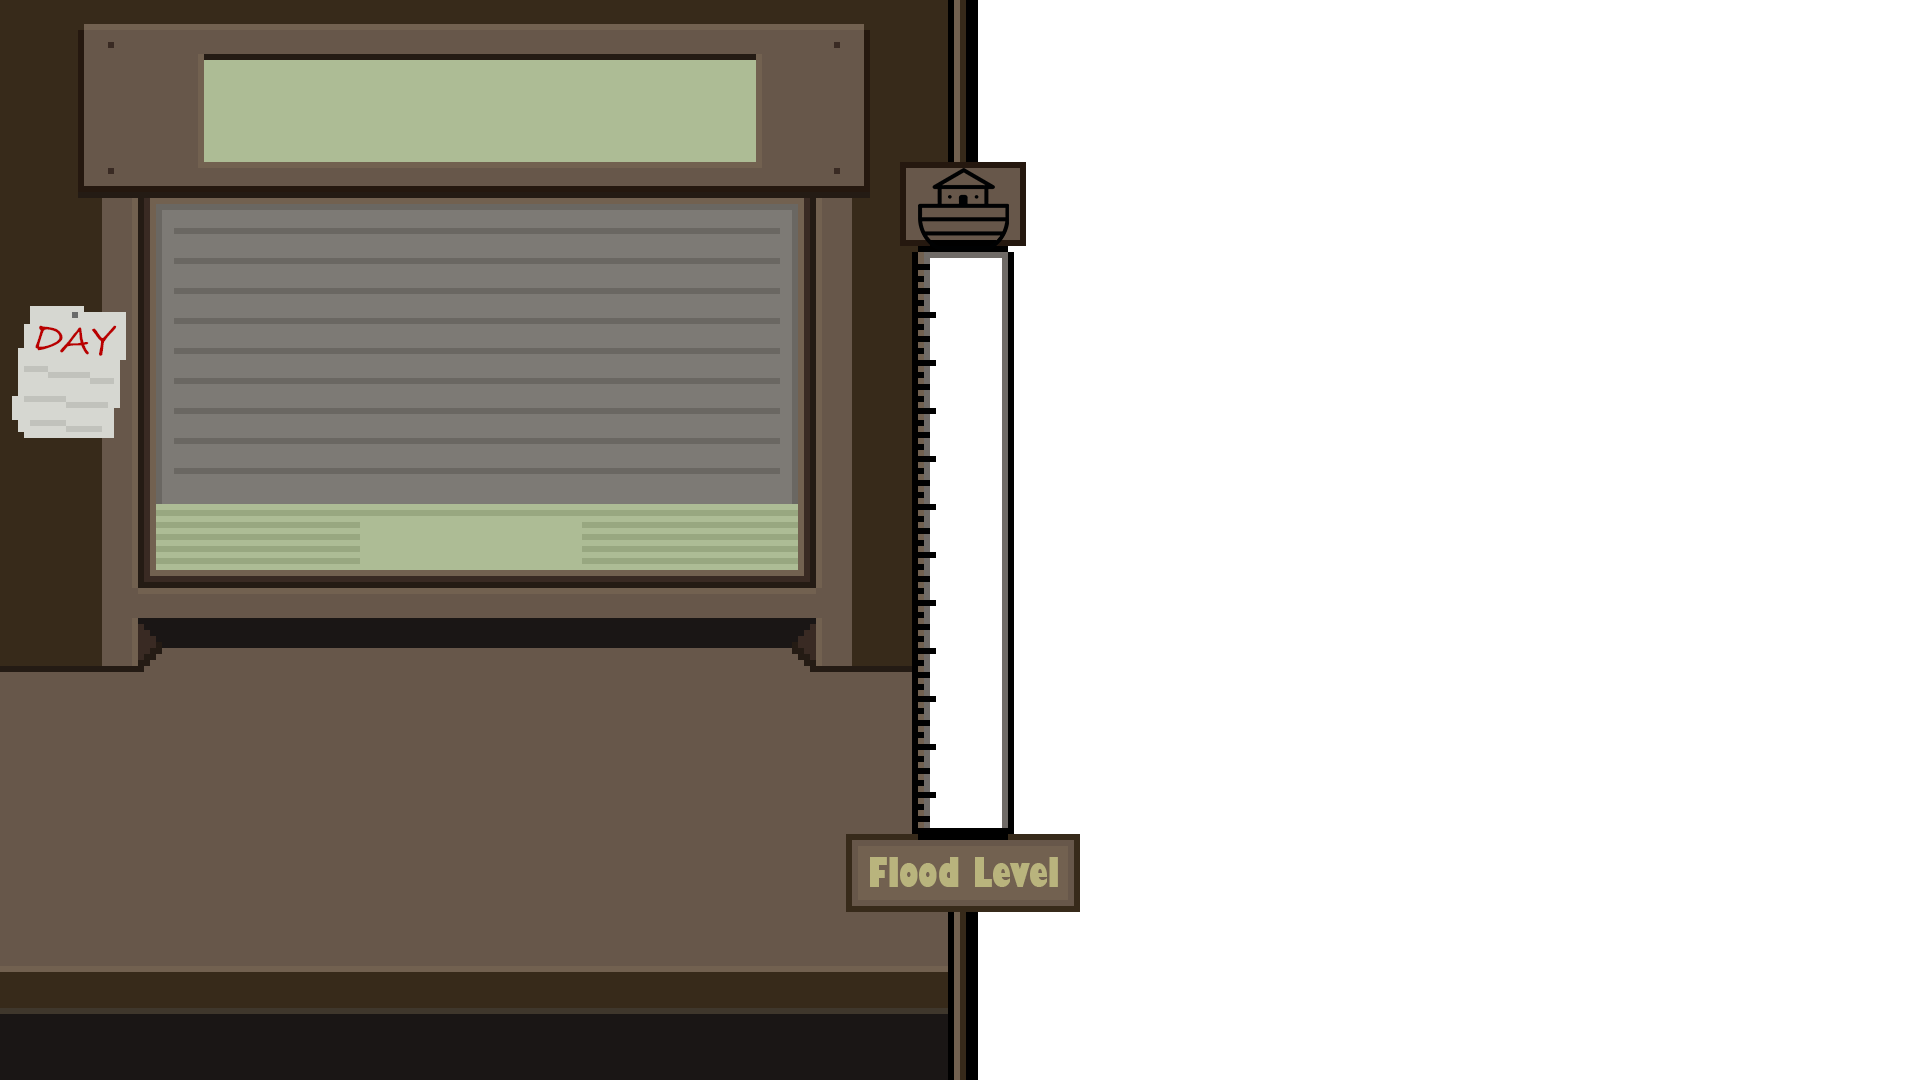
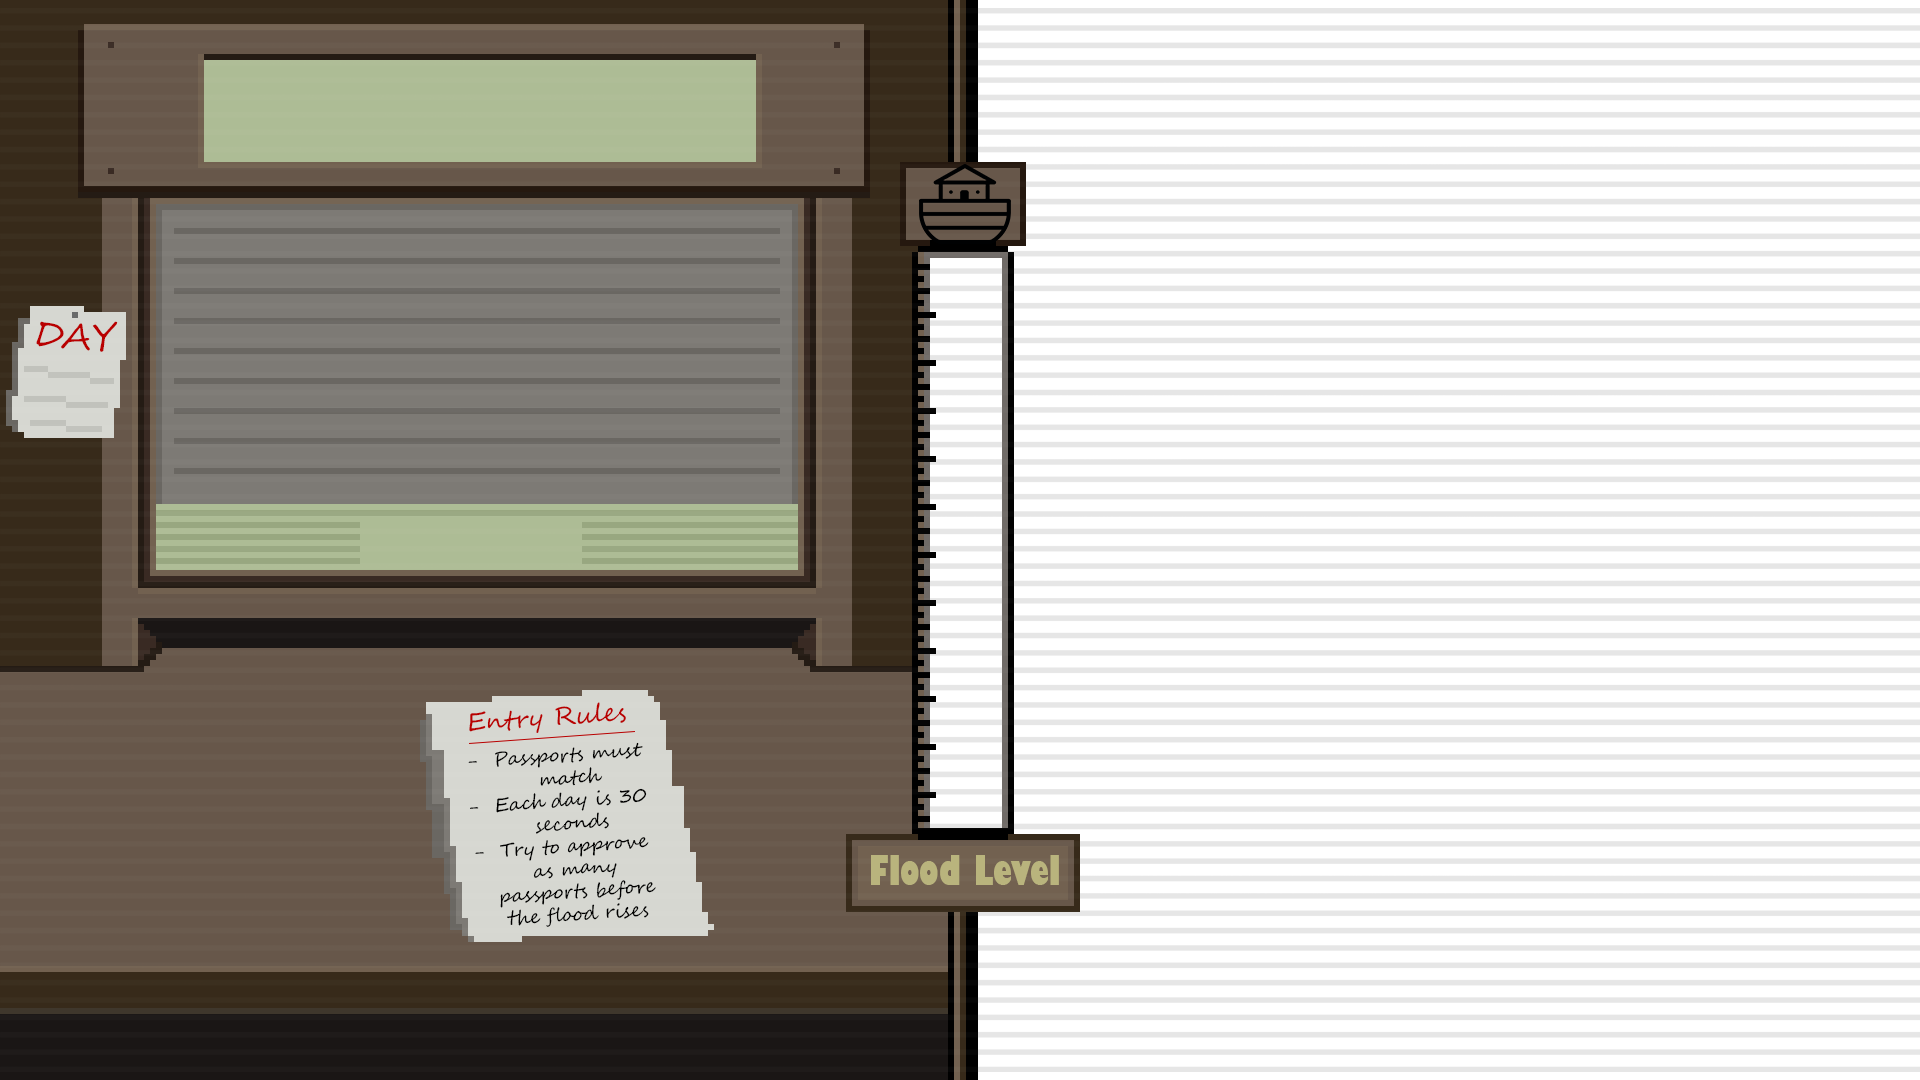
Finished main game screen in Aseprite. Added a lighthouse and rain effect. Tidying up positions of textures

Changed region(s): [[0.4375, 0.0, 1.0, 1.0], [0.2188, 0.6417, 0.375, 0.8861], [0.0, 0.275, 0.0625, 0.3972]]

diff --git a/src/Game.cpp b/src/Game.cpp
@@ -597,20 +597,20 @@ void Game::initialisePassports()
 void Game::initialiseButtons()
 {
 
-	if (!accept_texture.loadFromFile("../Data/Images/Stamps/Approved_button_new.png"))
+	if (!accept_texture.loadFromFile("../Data/Images/Approved(new).png"))
 	{
 		std::cout << "image did not load";
 	}
 
-	if (!reject_texture.loadFromFile("../Data/Images/Stamps/Rejected_button_new.png"))
+	if (!reject_texture.loadFromFile("../Data/Images/rejected(new).png"))
 	{
 		std::cout << "image did not load";
 	}
 
 	accept_button.setTexture(accept_texture);
 	reject_button.setTexture(reject_texture);
-	accept_button.setScale(.7f, .7f);
-	reject_button.setScale(.7f, .7f);
+	accept_button.setScale(.4f, .4f);
+	reject_button.setScale(.4f, .4f);
 
 
 
@@ -631,8 +631,8 @@ void Game::initialiseStamps()
 
 	accept_stamp.setTexture(accept_stamp_texture);
 	reject_stamp.setTexture(reject_stamp_texture);
-	accept_stamp.setScale(.7f, .7f);
-	reject_stamp.setScale(.7f, .7f);
+	accept_stamp.setScale(.6f, .6f);
+	reject_stamp.setScale(.6f, .6f);
 
 	
 
@@ -651,7 +651,7 @@ void Game::initialiseMenu()
 {
 
 	//menu texture
-	if (!menu_background_texture.loadFromFile("../Data/Images/Menu_screen_02.png"))
+	if (!menu_background_texture.loadFromFile("../Data/Images/Menu_screen_02_Screen_effect.png"))
 	{
 		std::cout << "background texture did not load \n";
 	}
@@ -702,7 +702,7 @@ void Game::initialisePlayAgainFont()
 
 void Game::initialiseGameScreen()
 {
-	if (!game_background_texture.loadFromFile("../Data/Images/Game_screen_05.png"))
+	if (!game_background_texture.loadFromFile("../Data/Images/Game_screen_06(final).png"))
 	{
 		std::cout << "background texture did not load \n";
 	}
@@ -717,10 +717,12 @@ void Game::initialiseGameTimer()
 {
 
 	game_duration = sf::seconds(30);
-	timer_text.setFont(dead_font);
+	timer_text.setFont(play_font);
 	timer_text.setCharacterSize(50);
+	timer_text.setOutlineColor(sf::Color(185, 180, 125, 255));
+	timer_text.setOutlineThickness(1);
 	timer_text.setFillColor(sf::Color::Black);
-	timer_text.setPosition(window.getSize().x - 220, 10);
+	timer_text.setPosition(943, 65);
 	/*timer_text.setString("Time: 2");*/
 
 	
@@ -825,7 +827,7 @@ void Game::initialiseCurrentDayText()
 	current_day_text.setFillColor(sf::Color::Black);
 	current_day_text.setCharacterSize(80);
 	current_day_text.setLetterSpacing(1);
-	current_day_text.setPosition(50, 342);
+	current_day_text.setPosition(50, 282);
 
 }
 
@@ -867,7 +869,7 @@ void Game::newAnimal()
 
 	passport->setTexture(passports[passport_index]);
 	passport->setScale(1.f, 1.f);
-	passport->setPosition(window.getSize().x / 2 + 150, window.getSize().y / 3 - 110);
+	passport->setPosition(window.getSize().x / 2 + 180, window.getSize().y / 3 - 150);
 	
 
 
@@ -934,7 +936,7 @@ void Game::floodTimer(float dt)
 	float current_height = max_height * percent;
 
 	// sets max size of gauge
-	flood_gauge.setSize(sf::Vector2f(55.f, current_height));
+	flood_gauge.setSize(sf::Vector2f(60.f, current_height));
 
 	// anchors bar from the bottom so bar rises upwards
 	flood_gauge.setPosition(939, 820 - current_height);
@@ -953,7 +955,7 @@ void Game::gameTimer()
 
 		int remainingSeconds = static_cast<int>(remaining.asSeconds());
 		timer_text.setString(
-			"Time: " + std::to_string(std::max(remainingSeconds, 0)));
+			std::to_string(std::max(remainingSeconds, 0)));
 
 		updateCurrentDayText();
 
